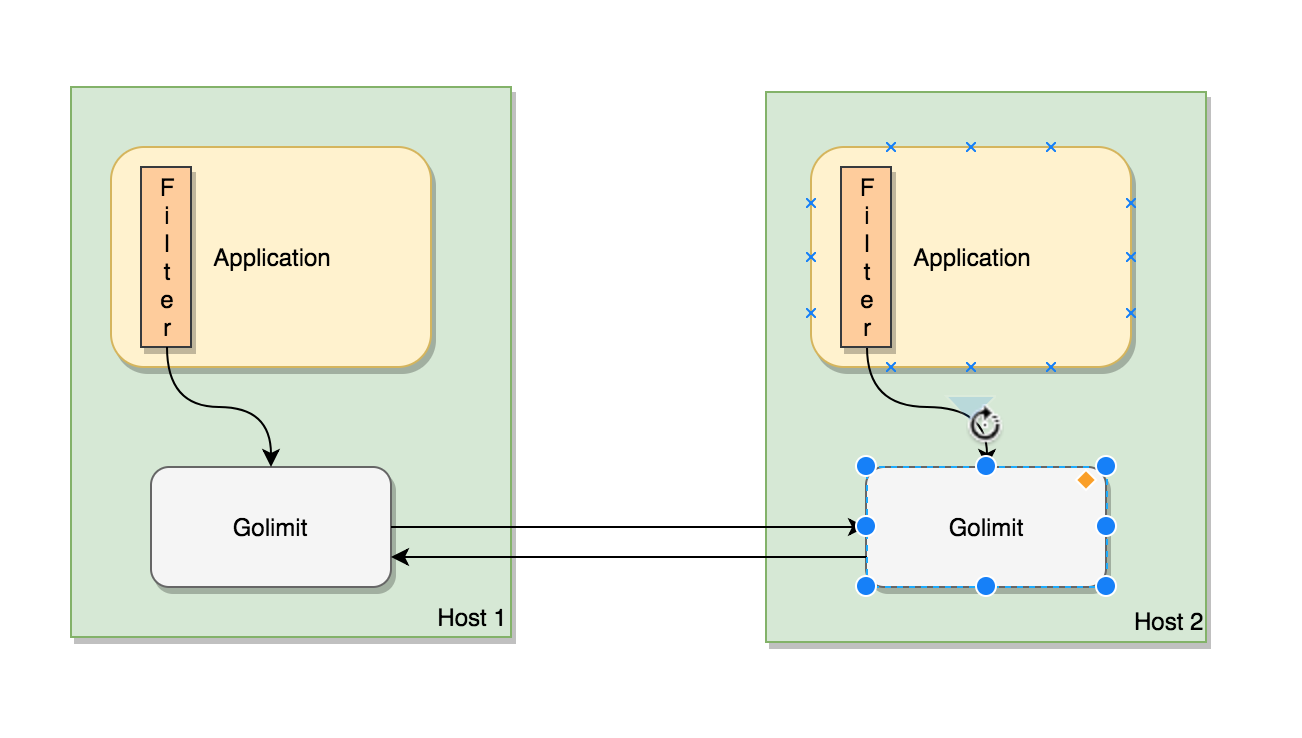
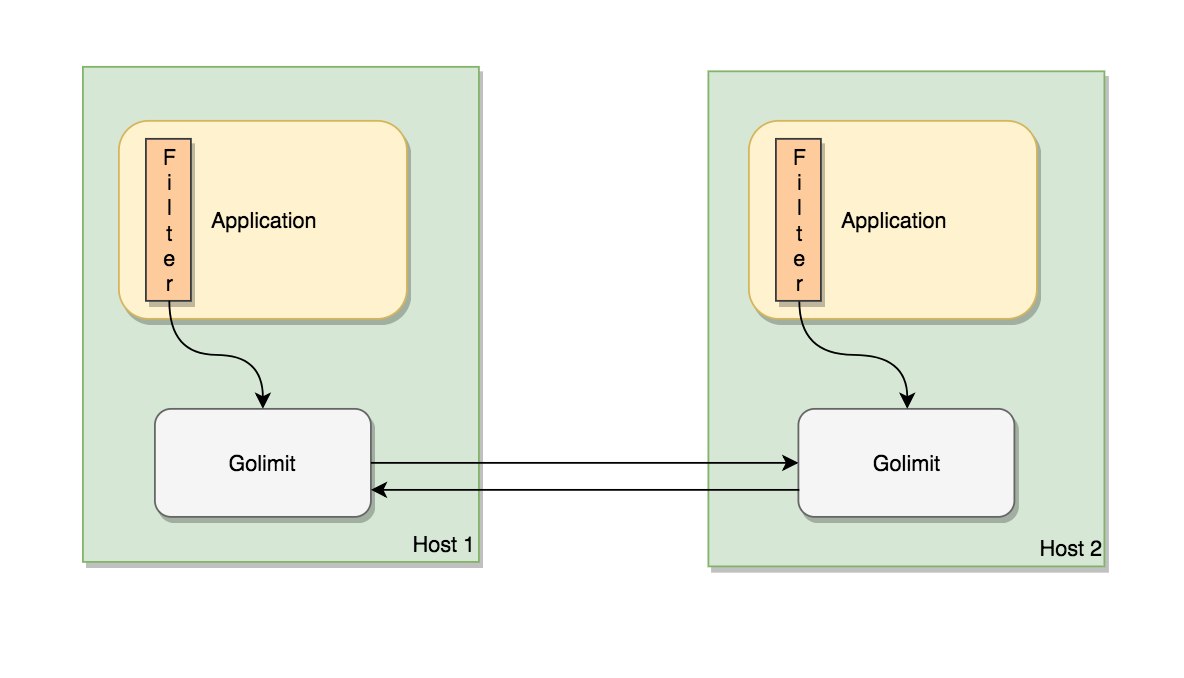
Updated deployment png and readme

Changed region(s): [[0.0312, 0.0929, 0.9375, 0.8982]]

diff --git a/README.md b/README.md
@@ -1,16 +1,30 @@
+## Golimit A Distributed Rate limiter
+Golimit is  Uber [ringpop](https://github.com/uber/ringpop-go "ringpop") based distributed and decentralized rate 
+limiter. It is horizontally scalable and is based on shard nothing architecture. Every node in system is capable of 
+handling read and writes of counters.
+It is designed to offer sub milliseconds latency to caller application. Recommended deployment topology is sidecar 
+model.
+Every golimit node keeps local and global counter for api counter and local value is synchronized with other nodes on 
+configurable periodic interval or at defined threshold. 
 
+#### Architecture
+<b>Http server</b>
+provides  http interface to increment counter against any arbitrary <b>Key</b> string. It also exposes admin api to 
+manage global configurations.
 
-##Golimit A Distributed Rate limiter
+<b>Store</b> encapsulates the data structure and functions to store, manage and replicate counters
+Counter synchronisation is done in asynchronous way so the the caller application is never blocked for cluster sync.
+Synchronizer module  keeps aggregating counters in memory and broadcast to other nodes on periodic intervals or when the 
+counter has crossed threshold. the interval and threshold are configurable.
 
-####Key features
+<b>StatsD Emitter</b> pushed metrics to configure statsd server.
+ 
+![Block Diagram](https://github.com/myntra/golimit/blob/master/images/block.png?raw=true)
 
-- Uses [ringpop](https://github.com/uber/ringpop-go "ringpop") hashring clustering library 
-- Stores counter and keys in memory therefore there is no requirement of external storage.
-- Seamlessly pushes blocked and allowed metrics against every key to statsd
-- Support of persistent store for rate configs. So in case of cluster loss. Cluster starts with last saved config
-- Security: Added security to prevent unauthorised modification of rate config
+#### Deployment
 
-####Installation
+![Block Diagram](https://github.com/myntra/golimit/blob/master/images/block.png?raw=true)
+#### Installation
 1. build
 
      `$ GOOS=linux GOARCH=amd64 go build` 
@@ -26,7 +40,7 @@
 2. Configure
     
     Yml config
-    ```yaml 
+    ```yml
         clustername:  IDEA # Cluster Name
         tchannelport: 2345 # Ringpop T Channel Port
         seed: "127.0.0.1:2345" # Seed node of cluster
@@ -54,9 +68,11 @@
    
    `go get bitbucket.org/myntra/golimitv3`
    
-   ```go 
+```go
+package main
+i
+func main(){
    //instansiate config
- 
     configObj := store.NewDefaultStoreConfig()
     //Update configuation as required
      
@@ -76,10 +92,12 @@
      
     //Ensure Store is closed on program exit
     store.Close()
-    
+}
+```
 
 
-####Development
+
+#### Development
 
 go to github.com/uber/tchannel-go/thrift/thrift-gen
 and do go build to build thrift-gen
